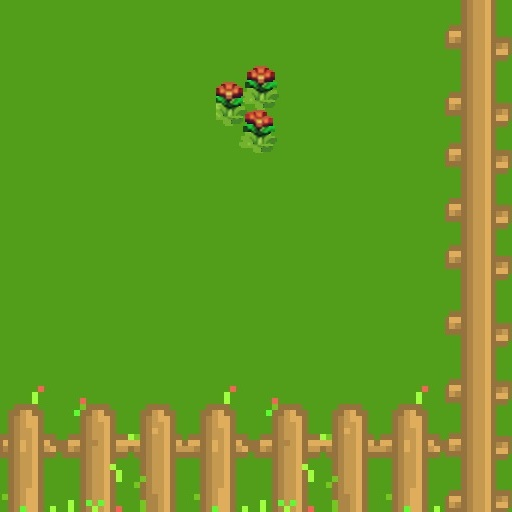
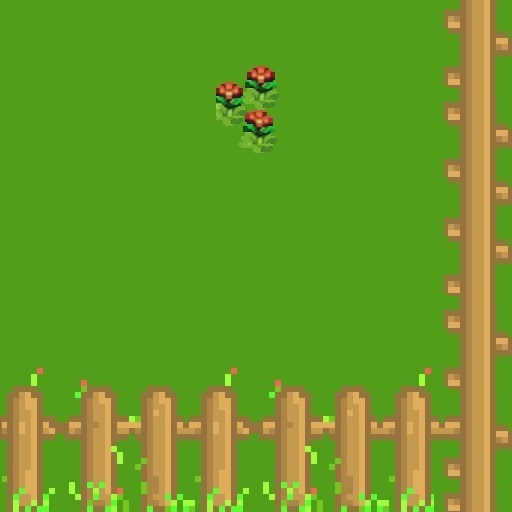
Map
Random trees, fixed fence, fixed smeti, fiksana drevesa

diff --git a/core/src/com/badlogic/drop/Game.java b/core/src/com/badlogic/drop/Game.java
@@ -63,9 +63,7 @@ public class Game implements com.badlogic.gdx.Screen {
     ////////////////////////////////
 	////// RECTANGLI ///////////////
 	private Rectangle bucket;
-	private Rectangle tree1;
-	private Rectangle tree2;
-	private Rectangle tree3;
+	private Rectangle[] trees;
 	private Rectangle bag;
     ////////////////////////////////
 	//POLJA Z SMETMI/KOŠIM/SMETEH NA TLEH
@@ -128,13 +126,28 @@ public class Game implements com.badlogic.gdx.Screen {
 	public Game(final Screen gam) {
 		this.game = gam;
 		all = SaveLoad.loadState();
-		time = all.getTime();
 		inventorySize = all.getInventorySpace();
 		speed = all.getSpeed() * 5;
-
+		rand = new Random();
+		/////// ZA OZADJA /////////////////////////////////////
+		/////// ZA OZADJA /////////////////////////////////////
+		/////// ZA OZADJA /////////////////////////////////////
+		/////// ZA OZADJA /////////////////////////////////////
+		//ozadje = new Ozadje();
+		//createRegions(ozadje);
+		height = rand.nextInt(12-5) + 4;
+		width = rand.nextInt(12-5) + 4;
+		ozadje = new Ozadje(width,height);
+		CreateCustomRegions(ozadje);
+		/////// ZA OZADJA /////////////////////////////////////
+		/////// ZA OZADJA /////////////////////////////////////
+		/////// ZA OZADJA /////////////////////////////////////
+		/////// ZA OZADJA /////////////////////////////////////
+		/////// ZA OZADJA /////////////////////////////////////
+		time = all.getTime() + (all.lvl * 5) + height * width;
+		trees = new Rectangle[height + width + rand.nextInt((height + width) - 1) + 0];//rand.nextInt(13-3) + 3
 		gameOn = true;
 		win = false;
-		rand = new Random();
 		font = new BitmapFont();
 		inventoryFont = new BitmapFont();
 		scoreFont = new BitmapFont();
@@ -157,21 +170,6 @@ public class Game implements com.badlogic.gdx.Screen {
 		continuee = new Texture(Gdx.files.internal("continue.png"));
 		standing = new Texture(Gdx.files.internal("hat_man.png"));
 		x = new Texture(Gdx.files.internal("x.png"));
-		/////// ZA OZADJA /////////////////////////////////////
-		/////// ZA OZADJA /////////////////////////////////////
-		/////// ZA OZADJA /////////////////////////////////////
-		/////// ZA OZADJA /////////////////////////////////////
-		//ozadje = new Ozadje();
-		//createRegions(ozadje);
-		height = rand.nextInt(13-6) + 6;
-		width = rand.nextInt(13-6) + 6;
-		ozadje = new Ozadje(width,height);
-		CreateCustomRegions(ozadje);
-		/////// ZA OZADJA /////////////////////////////////////
-		/////// ZA OZADJA /////////////////////////////////////
-		/////// ZA OZADJA /////////////////////////////////////
-		/////// ZA OZADJA /////////////////////////////////////
-		/////// ZA OZADJA /////////////////////////////////////
 
 		// load the sound effects and the rain background "music"
 		dropSound = Gdx.audio.newSound(Gdx.files.internal("drop.wav"));
@@ -239,14 +237,13 @@ public class Game implements com.badlogic.gdx.Screen {
 		for(int i=0; i<4; i++){
 			booleanBins[i] = false;
 		}
+		//DREVESA
+		narediDrevesa();
 		createTrash();
 		//spawnRaindrop();
 		for(int i=0; i<numberOfTrash; i++){
 			spawnTrash();
 		}
-		//DREVESA
-
-		narediDrevesa();
 	}
 
 	//dodaj spreminjajoče kante/inventory/nove smeti/ mogoče drevesa/mogoče ozadaje poštimati
@@ -328,9 +325,10 @@ public class Game implements com.badlogic.gdx.Screen {
 			batch.draw(playerImage, playerDirection ? bucket.x+100 : bucket.x, bucket.y, playerDirection ? -100 : 100, 100);
 			//spriteBatch.draw(currentFrame, flip ? x+width : x, y, flip ? -width : width, height);
 			//DREVESA
-			batch.draw(tree, tree1.x, tree1.y);
-			batch.draw(tree, tree2.x, tree2.y);
-			batch.draw(tree, tree3.x, tree3.y);
+			for (Rectangle item:trees) {
+				//batch.draw(tree, item.x, item.y);
+				batch.draw(tree, item.x - 25, item.y - 33);
+			}
 			//BESEDILA
 			batch.draw(bagImage, camera.position.x + 300, camera.position.y + 290);
 			font.draw(batch, litterText, camera.position.x - 500, camera.position.y + 330);
@@ -385,16 +383,19 @@ public class Game implements com.badlogic.gdx.Screen {
 			}
 		}
 		if(gameOn) {
-			if (bucket.y < 105) bucket.y = 105;
-			if (bucket.y > (height * 512) - 233) bucket.y = (height * 512) - 233; //1815
+			if (bucket.y < 130) bucket.y = 130;
+			if (bucket.y > (height * 512) - 200) bucket.y = (height * 512) - 200; //1815, 233
 			if (bucket.x < 60) bucket.x = 60;
 			if (bucket.x > (width * 512)- 146) bucket.x = (width * 512)- 146; //3950
 
 			//Onemogočitev zaletavanja v drevo
-			if (tree1.overlaps(bucket) || tree2.overlaps(bucket) || tree3.overlaps(bucket)) {
-				bucket.x = oldX;
-				bucket.y = oldY;
+			for (Rectangle item:trees) {
+				if (item.overlaps(bucket)) {
+					bucket.x = oldX;
+					bucket.y = oldY;
+				}
 			}
+
 
 			//if(bucket.x > 1810 && bucket.x < 2005 && bucket.y < 1247 && bucket.y > 1115){
 			//	bucket.x = oldX;
@@ -549,16 +550,12 @@ public class Game implements com.badlogic.gdx.Screen {
 		nov.setText(new Texture(Gdx.files.internal(nov.getImg())));
         counter = counter + 1;
 		Rectangle smet = new Rectangle();
-		smet.x = rand.nextInt(3950-200)+200;
-		smet.y = rand.nextInt(1815 - 105) + 105;
-		if(smet.x > 1810 && smet.x < 2005 && smet.y < 1247 && smet.y > 1115){
-			smet.y = smet.y - 30;
-		}
-		if(smet.x > 1375 && smet.x < 1571 && smet.y < 609 && smet.y > 450){
-			smet.y = smet.y - 30;
-		}
-		if(smet.x > 3386 && smet.x < 3572 && smet.y < 1560 && smet.y > 1401){
-			smet.y = smet.y - 30;
+		smet.x = rand.nextInt((512*width - 250)-200)+200;
+		smet.y = rand.nextInt((512*height - 250) - 105) + 105;
+		for (Rectangle item:trees) {
+			if(smet.overlaps(item)){
+				smet.y = smet.y - 30;
+			}
 		}
 		smet.width = nov.width;
 		smet.height = nov.height;
@@ -624,7 +621,19 @@ public class Game implements com.badlogic.gdx.Screen {
 	}
 
 	private void narediDrevesa(){
-		tree1 = new Rectangle();
+		for (int i=0; i<trees.length; i++) {
+			trees[i] = new Rectangle();
+			trees[i].x = rand.nextInt(((512 * width) - 400)-400) + 400;
+			trees[i].y = rand.nextInt(((512 * height) - 400)-400) + 400;
+			trees[i].height = 67;
+			trees[i].width = 65;
+			for(int j=0; j<i; j++){
+				if(trees[i].overlaps(trees[j]) && i!=j ){
+					trees[i].x = trees[i].x + 150;
+				}
+			}
+		}
+		/*tree1 = new Rectangle();
 		tree2 = new Rectangle();
 		tree3 = new Rectangle();
 		tree1.x = 1870;
@@ -639,6 +648,7 @@ public class Game implements com.badlogic.gdx.Screen {
 		tree3.y = 1480;
 		tree3.width = 130;
 		tree3.height = 130;
+		*/
 	}
 
 	private void dajVKos(int b, TrashType t, boolean isFull){
@@ -697,7 +707,7 @@ public class Game implements com.badlogic.gdx.Screen {
 	private void CreateCustomRegions(Ozadje o){
 		int x = 0;
 		int y = 0;
-		o.setTexture(0, "background_images/BottomLeft.jpg");
+		o.setTexture(0, "background_images/BottomLeft.png");
 		o.setxPos(0, x);
 		o.setyPos(0, y);
 		o.setTexture(1, "background_images/TopLeft.jpg");

diff --git a/core/src/com/badlogic/drop/DataAll.java b/core/src/com/badlogic/drop/DataAll.java
@@ -23,7 +23,7 @@ public class DataAll {
         this.speed = 0;
         this.inventorySpace = 0;
         this.gold = 0;
-        time = 120;
+        time = 85;
     }
 
     public DataAll(int lvl, int speed, int inventorySpace, int gold, int timer) {
